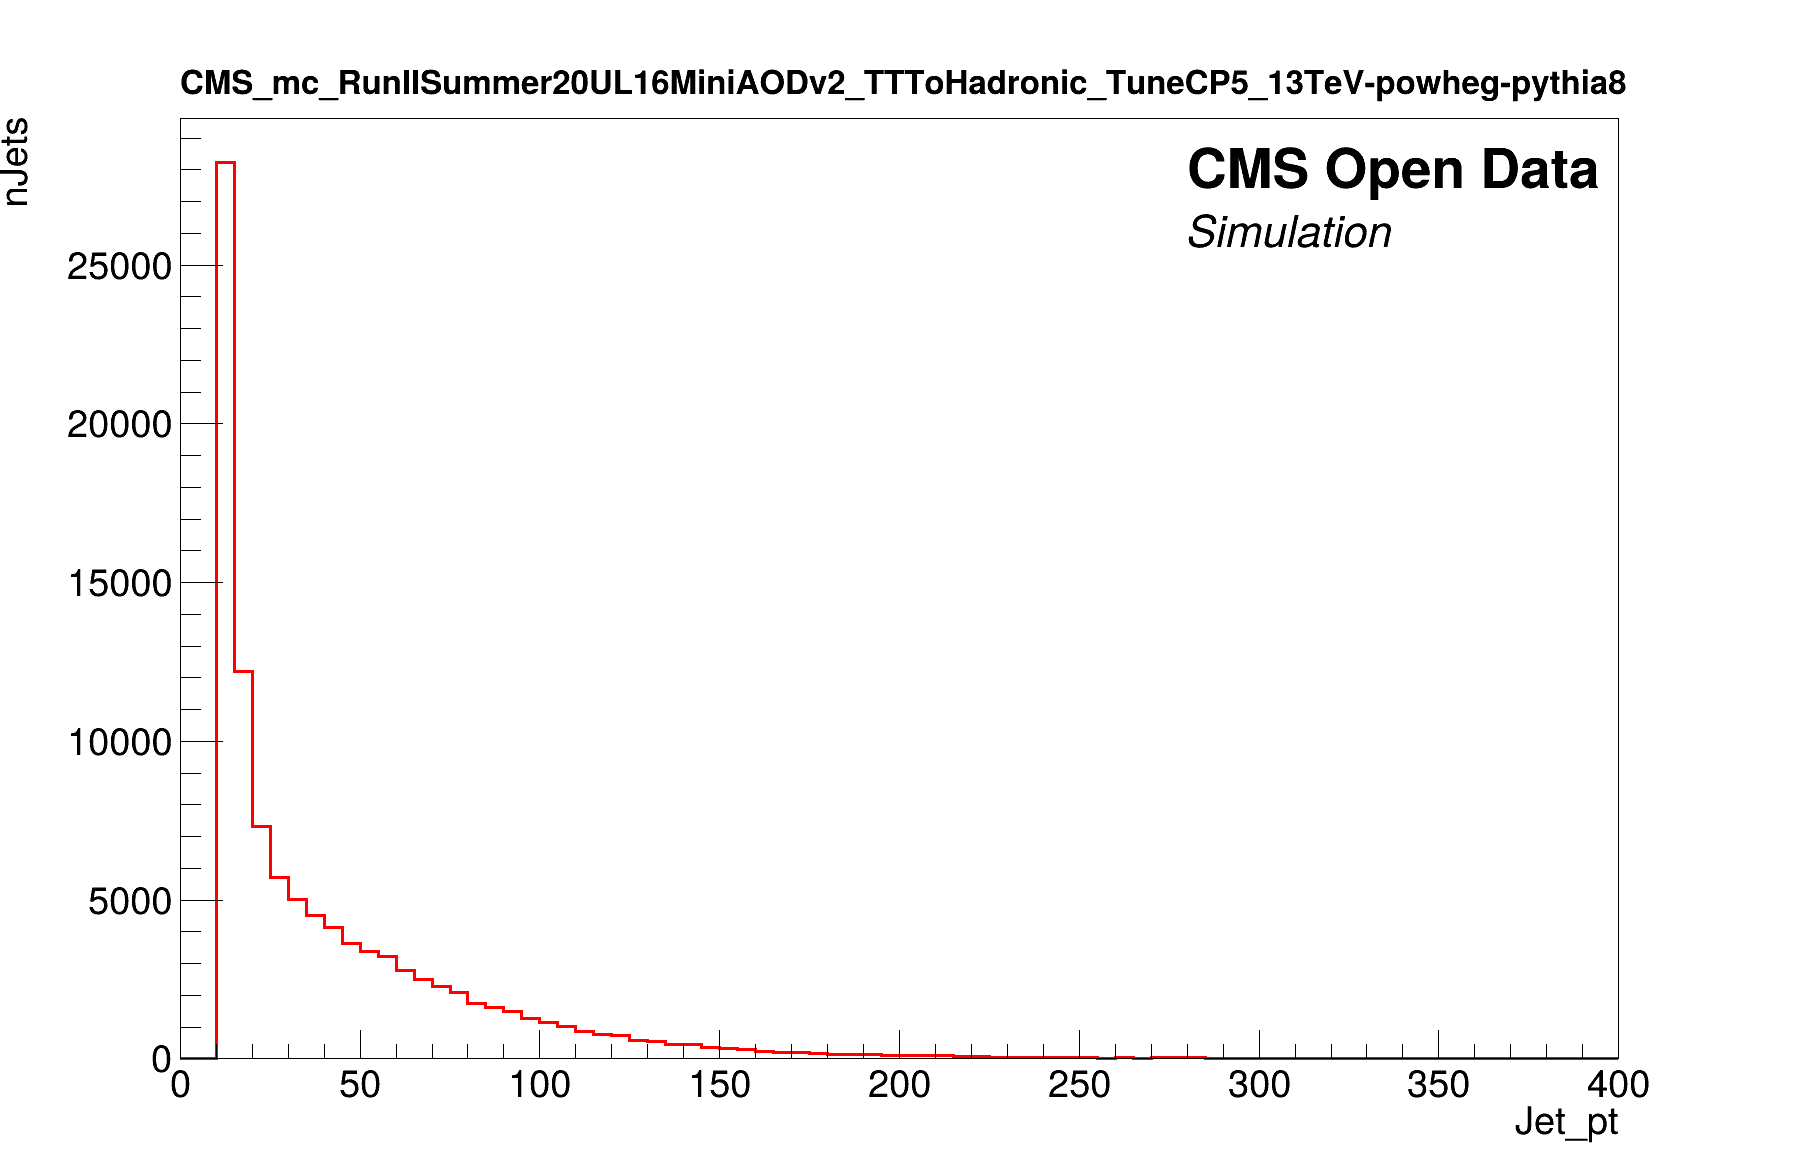
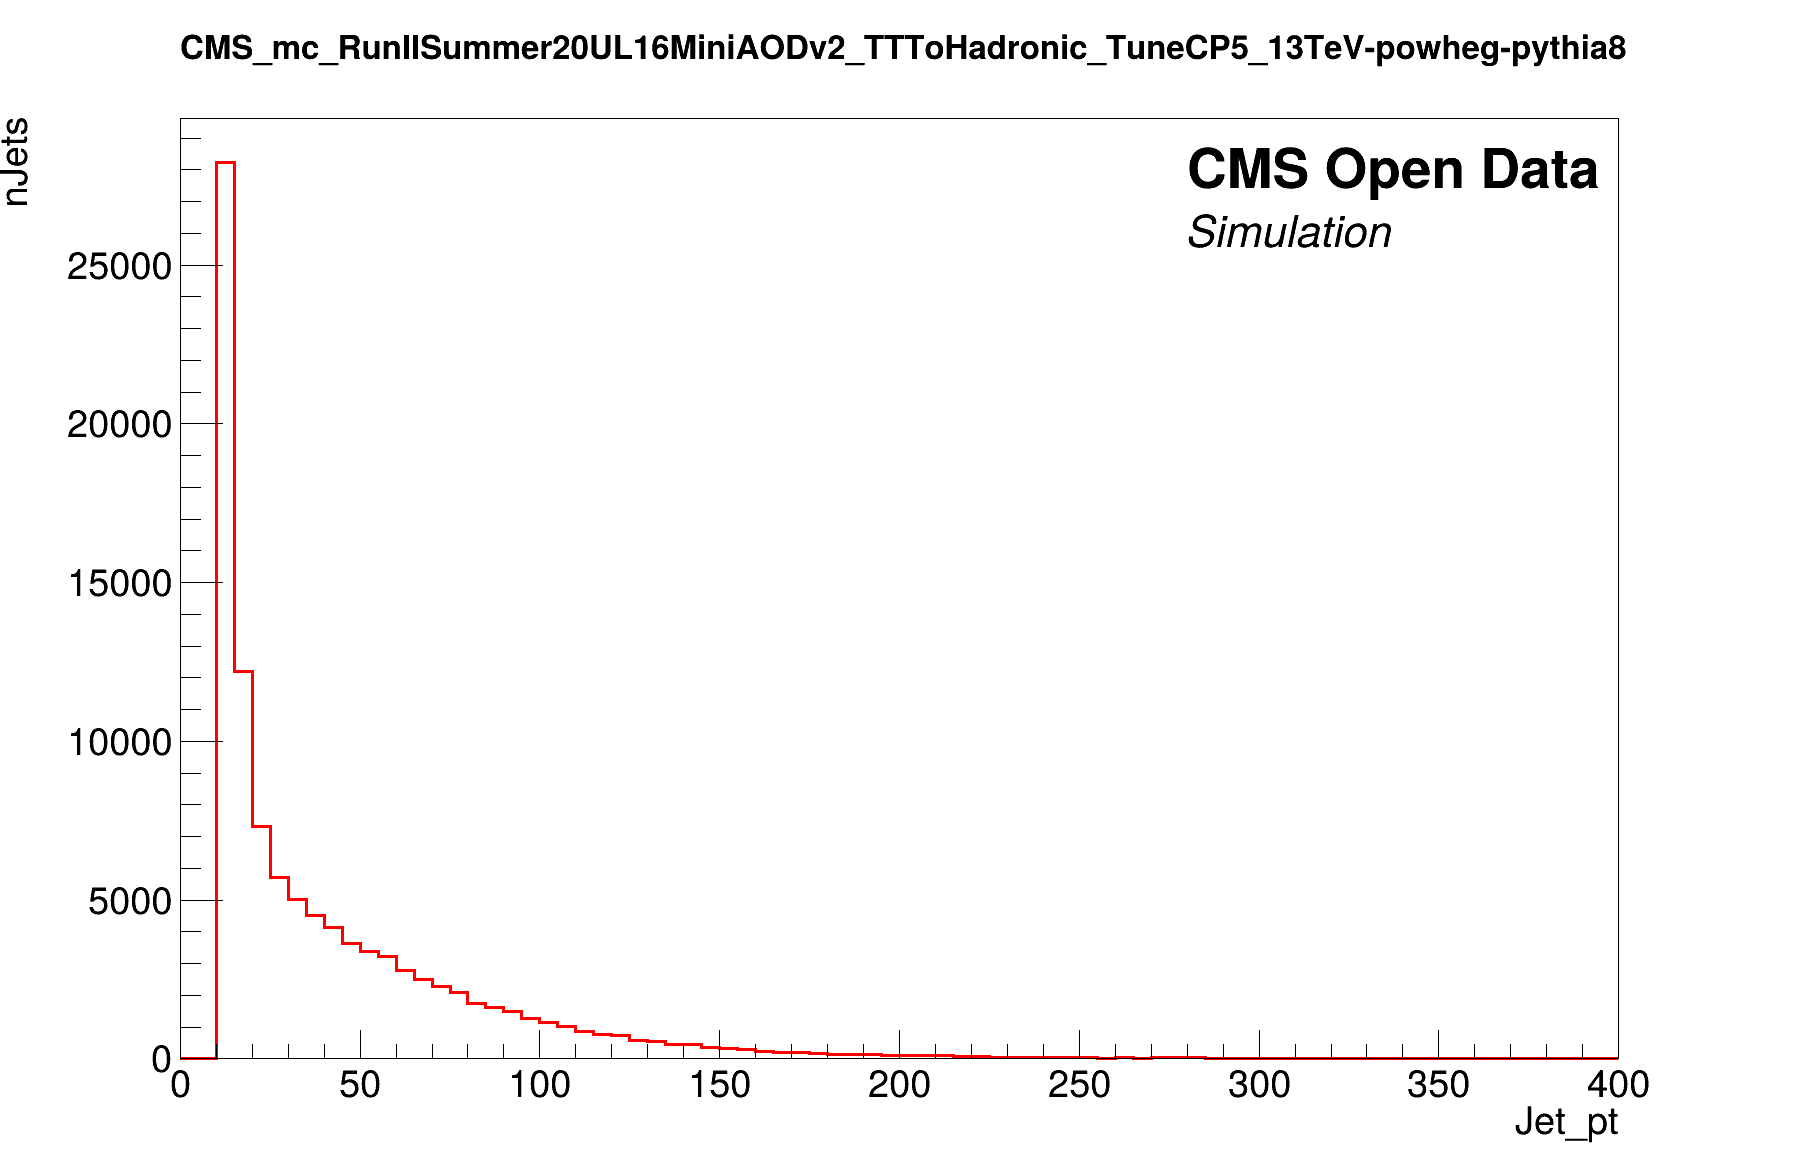
Added scripts to produce hists and overlays

Changed region(s): [[0.0934, 0.0306, 0.9032, 0.0918]]

diff --git a/SoftCharmTagging/AnalysisCodes/Plots/overlay.C b/SoftCharmTagging/AnalysisCodes/Plots/overlay.C
@@ -1,0 +1,205 @@
+/* ===========================================
+   
+  This is a graphing script to make histograms
+  look presentable and ready for journal uses.
+  This one is particularly made as an overlay 
+  script.
+  Created on: 10 Jul, 2024
+  Original Author: Raj Handique
+
+  Steps to the execute/run the code:
+
+  1. In the ROOT prompt,
+  root [0] .x graphing.C -> will produce the desired plot
+  =========================================== */
+
+// user include header files 
+
+#include <iostream>
+#include <string>
+#include <fstream>
+#include <TFile.h>
+#include <TH1.h>
+#include <TH1F.h>
+#include <TPaveText.h>
+#include <TString.h>
+#include <TCanvas.h>
+#include <TLegend.h>
+#include <TGraph.h>
+
+// Declaring all the functions necessary. The descriptions can be found commented
+// along with them.
+
+void decorate(TH1 *h, int linecolor, double linewidth){
+
+  // This functions decorates the histogram with color and linewidth
+
+  h->SetLineColor(linecolor);
+  h->SetLineWidth(linewidth);
+}
+
+void decLegend(TLegend *g, float txtsize, TString lgHeader){
+  g->SetTextSize(txtsize);
+  g->SetFillStyle(1);
+  g->SetFillColor(10);
+  g->SetBorderSize(1);
+  g->SetLineColor(10);
+}
+
+void overlay(){
+
+  // The name of the input files (.root files)
+  TString filename1 = "../Histograms/nanoAnaCentral2016_hist.root";
+  TString filename2 = "../Histograms/nanoAnaCustom2016_hist.root";  
+
+  // The name of the plot(s) to be accessed from the histogram file
+  TString plotname1 = "nJets";
+  TString plotname2 = "Jet_pt";
+  TString plotname3 = "Jet_eta";
+  TString plotname4 = "Jet_phi";
+
+  // Opening the files using TFile
+  TFile *file1 = new TFile(filename1);
+  TFile *file2 = new TFile(filename2);
+
+  // Opening and Assigning the histograms from the input file(s)
+  // filename 1
+  TH1F *h1 = (TH1F*)file1->Get(plotname1);
+  TH1F *h2 = (TH1F*)file1->Get(plotname2);
+  TH1F *h3 = (TH1F*)file1->Get(plotname3);
+  TH1F *h4 = (TH1F*)file1->Get(plotname4);
+  // filename 2
+  TH1F *h5 = (TH1F*)file2->Get(plotname1);
+  TH1F *h6 = (TH1F*)file2->Get(plotname2);
+  TH1F *h7 = (TH1F*)file2->Get(plotname3);
+  TH1F *h8 = (TH1F*)file2->Get(plotname4);
+
+  // Scaling the histograms
+  h1->Scale(1.0/h1->Integral());
+  h2->Scale(1.0/h2->Integral());
+  h3->Scale(1.0/h3->Integral());
+  h4->Scale(1.0/h4->Integral());
+  h5->Scale(1.0/h5->Integral());
+  h6->Scale(1.0/h6->Integral());
+  h7->Scale(1.0/h7->Integral());
+  h8->Scale(1.0/h8->Integral());
+
+  // Plot1: nJets
+  decorate(h1, kRed+0, 3);
+  decorate(h5, kBlue+0, 3);
+  TCanvas *c1 = new TCanvas("c1","CMS Open Data", 1800, 1200);
+  // Legend
+  TLegend *lg1 = new TLegend(0.6, 0.5, 0.9, 0.6,NULL,"NDC");
+  lg1->AddEntry(h1,"customNanoAOD","lp");
+  lg1->AddEntry(h5,"centralNanoAOD","lf");
+  h1->Draw("hist");
+  gPad->Update();
+  TPaveStats* stats1 = (TPaveStats*)h1->FindObject("stats");
+  stats1->SetTextColor(kRed);
+  stats1->SetX1NDC(0.50); stats1->SetX2NDC(0.70);
+  stats1->SetY1NDC(0.75); stats1->SetY2NDC(0.90);
+  h5->Draw("hist sames");
+  gPad->Update();
+  TPaveStats* stats2 = (TPaveStats*)h5->FindObject("stats");
+  stats2->SetTextColor(kBlue);
+  stats2->SetX1NDC(0.70); stats2->SetX2NDC(0.90);
+  stats2->SetY1NDC(0.75); stats2->SetY2NDC(0.90);
+  lg1->Draw();
+  TLatex t1, t2, t3;
+  t1.SetTextSize(0.05);
+  t2.SetTextSize(0.04);
+  t3.SetTextSize(0.03);
+  t1.DrawLatexNDC(0.1, 0.95, "CMS Open Data");
+  t2.DrawLatexNDC(0.1, 0.91, "#it{#bf{Simulation}}");
+//   t3.DrawLatexNDC(0.1, 0.95, "CMS_mc_RunIISummer20UL16NanoAODv9_TTToHadronic_TuneCP5_13TeV-powheg-pythia8");
+  c1->Update();
+  c1->SaveAs("Overlay_plots/nJets_plot.png");
+
+  // Plot2: Jet_pt
+  decorate(h2, kRed+0, 3);
+  decorate(h6, kBlue+0, 3);
+  h2->GetXaxis()->SetRangeUser(0, 300);
+  h6->GetXaxis()->SetRangeUser(0, 300);
+  TCanvas *c2 = new TCanvas("c2","CMS Open Data", 1800, 1200);
+  // Legend
+  TLegend *lg2 = new TLegend(0.6, 0.5, 0.9, 0.6,NULL,"NDC");
+  decLegend(lg2,0.0285,""); 
+  lg2->AddEntry(h2,"customNanoAOD","lp");
+  lg2->AddEntry(h6,"centralNanoAOD","lf");
+  h6->Draw("hist");
+  gPad->Update();
+  TPaveStats* stats3 = (TPaveStats*)h6->FindObject("stats");
+  stats3->SetTextColor(kRed);
+  stats3->SetX1NDC(0.50); stats3->SetX2NDC(0.70);
+  stats3->SetY1NDC(0.75); stats3->SetY2NDC(0.90);
+  h2->Draw("hist sames");
+  gPad->Update();
+  TPaveStats* stats4 = (TPaveStats*)h2->FindObject("stats");
+  stats4->SetTextColor(kBlue);
+  stats4->SetX1NDC(0.70); stats4->SetX2NDC(0.90);
+  stats4->SetY1NDC(0.75); stats4->SetY2NDC(0.90);
+  t1.DrawLatexNDC(0.1, 0.95, "CMS Open Data");
+  t2.DrawLatexNDC(0.1, 0.91, "#it{#bf{Simulation}}");
+//   t3.DrawLatexNDC(0.1, 0.95, "CMS_mc_RunIISummer20UL16NanoAODv9_TTToHadronic_TuneCP5_13TeV-powheg-pythia8");
+  lg2->Draw();
+  c2->Update();
+  c2->SaveAs("Overlay_plots/Jet_pt_plot.png");
+
+  // Plot3: Jet_eta
+  decorate(h3, kRed+0, 3);
+  decorate(h7, kBlue+0, 3);
+  TCanvas *c3 = new TCanvas("c3","CMS Open Data", 1800, 1200);
+  // Legend
+  TLegend *lg3 = new TLegend(0.37, 0.2, 0.625, 0.3,NULL,"NDC");
+  decLegend(lg1,0.0285,""); 
+  lg3->AddEntry(h3,"customNanoAOD","lp"); 
+  lg3->AddEntry(h7,"centralNanoAOD","lf");
+  h3->Draw("hist");
+  gPad->Update();
+  TPaveStats* stats5 = (TPaveStats*)h3->FindObject("stats");
+  stats5->SetTextColor(kBlue);
+  stats5->SetX1NDC(0.70); stats5->SetX2NDC(0.90);
+  stats5->SetY1NDC(0.79); stats5->SetY2NDC(0.89);
+  h7->Draw("hist sames");
+  gPad->Update();
+  TPaveStats* stats6 = (TPaveStats*)h7->FindObject("stats");
+  stats6->SetTextColor(kRed);
+  stats6->SetX1NDC(0.70); stats6->SetX2NDC(0.90);
+  stats6->SetY1NDC(0.69); stats6->SetY2NDC(0.79);
+  t1.DrawLatexNDC(0.1, 0.95, "CMS Open Data");
+  t2.DrawLatexNDC(0.1, 0.91, "#it{#bf{Simulation}}");
+//   t3.DrawLatexNDC(0.1, 0.95, "CMS_mc_RunIISummer20UL16NanoAODv9_TTToHadronic_TuneCP5_13TeV-powheg-pythia8");
+  lg3->Draw();
+  c3->Update();
+  c3->SaveAs("Overlay_plots/Jet_eta_plot.png");
+
+  // Plot4: Jet_phi
+  decorate(h4, kRed+0, 3);
+  decorate(h8, kBlue+0, 3);
+  h4->GetXaxis()->SetRangeUser(-5, 5);
+  TCanvas *c4 = new TCanvas("c4","CMS Open Data", 1800, 1200);
+  // Legend
+  TLegend *lg4 = new TLegend(0.37, 0.2, 0.625, 0.3,NULL,"NDC");
+  decLegend(lg1,0.0285,"");
+  lg4->AddEntry(h4,"customNanoAOD","lp");
+  lg4->AddEntry(h8,"centralNanoAOD","lf");
+  h8->Draw("hist");
+  gPad->Update();
+  TPaveStats* stats7 = (TPaveStats*)h8->FindObject("stats");
+  stats7->SetTextColor(kRed);
+  stats7->SetX1NDC(0.4); stats7->SetX2NDC(0.6);
+  stats7->SetY1NDC(0.42); stats7->SetY2NDC(0.52);
+  h4->Draw("hist sames");
+  gPad->Update();
+  TPaveStats* stats8 = (TPaveStats*)h4->FindObject("stats");
+  stats8->SetTextColor(kBlue);
+  stats8->SetX1NDC(0.4); stats8->SetX2NDC(0.6);
+  stats8->SetY1NDC(0.32); stats8->SetY2NDC(0.42);
+  t1.DrawLatexNDC(0.1, 0.95, "CMS Open Data");
+  t2.DrawLatexNDC(0.1, 0.91, "#it{#bf{Simulation}}");
+//   t3.DrawLatexNDC(0.1, 0.95, "CMS_mc_RunIISummer20UL16NanoAODv9_TTToHadronic_TuneCP5_13TeV-powheg-pythia8");
+  lg4->Draw();
+  c4->Update();
+  c4->SaveAs("Overlay_plots/Jet_phi_plot.png");
+}
+

diff --git a/SoftCharmTagging/AnalysisCodes/Plots/central_graphing.C b/SoftCharmTagging/AnalysisCodes/Plots/central_graphing.C
@@ -59,54 +59,54 @@ void central_graphing(){
 
   // Plot1: nJets
   decorate(h1, kRed+0, 3);
-  h1->SetStats(0);
+  h1->SetStats(4);
   TCanvas *c1 = new TCanvas("c1","CMS Open Data", 1800, 1200);
   h1->Draw("hist");
   TLatex t1, t2, t3;
   t1.SetTextSize(0.05);
   t2.SetTextSize(0.04);
   t3.SetTextSize(0.03);
-  t1.DrawLatexNDC(0.66, 0.84, "CMS Open Data");
-  t2.DrawLatexNDC(0.66, 0.79, "#it{#bf{Simulation}}");
-  t3.DrawLatexNDC(0.1, 0.92, "CMS_mc_RunIISummer20UL16NanoAODv9_TTToHadronic_TuneCP5_13TeV-powheg-pythia8");
+  // t1.DrawLatexNDC(0.66, 0.84, "CMS Open Data");
+  // t2.DrawLatexNDC(0.66, 0.79, "#it{#bf{Simulation}}");
+  t3.DrawLatexNDC(0.1, 0.95, "CMS_mc_RunIISummer20UL16NanoAODv9_TTToHadronic_TuneCP5_13TeV-powheg-pythia8");
   c1->Update();
   c1->SaveAs("central_nanoAOD_plots/nJets_plot.png");
 
   // Plot2: Jet_pt
   decorate(h2, kRed+0, 3);
-  h2->SetStats(0);
+  h2->SetStats(4);
   h2->GetXaxis()->SetRangeUser(0, 400);
   TCanvas *c2 = new TCanvas("c2","CMS Open Data", 1800, 1200);
   h2->Draw("hist");
-  t1.DrawLatexNDC(0.66, 0.84, "CMS Open Data");
-  t2.DrawLatexNDC(0.66, 0.79, "#it{#bf{Simulation}}");
-  t3.DrawLatexNDC(0.1, 0.92, "CMS_mc_RunIISummer20UL16NanoAODv9_TTToHadronic_TuneCP5_13TeV-powheg-pythia8");
+  // t1.DrawLatexNDC(0.66, 0.84, "CMS Open Data");
+  // t2.DrawLatexNDC(0.66, 0.79, "#it{#bf{Simulation}}");
+  t3.DrawLatexNDC(0.1, 0.95, "CMS_mc_RunIISummer20UL16NanoAODv9_TTToHadronic_TuneCP5_13TeV-powheg-pythia8");
   c2->Update();
   c2->SaveAs("central_nanoAOD_plots/Jet_pt_plot.png");
 
   // Plot3: Jet_eta
   decorate(h3, kRed+0, 3);
-  h3->SetStats(0);
+  h3->SetStats(4);
   TCanvas *c3 = new TCanvas("c3","CMS Open Data", 1800, 1200);
   h3->Draw("hist");
-  t1.DrawLatexNDC(0.66, 0.84, "CMS Open Data");
-  t2.DrawLatexNDC(0.66, 0.79, "#it{#bf{Simulation}}");
-  t3.DrawLatexNDC(0.1, 0.92, "CMS_mc_RunIISummer20UL16NanoAODv9_TTToHadronic_TuneCP5_13TeV-powheg-pythia8");
+  // t1.DrawLatexNDC(0.66, 0.84, "CMS Open Data");
+  // t2.DrawLatexNDC(0.66, 0.79, "#it{#bf{Simulation}}");
+  t3.DrawLatexNDC(0.1, 0.95, "CMS_mc_RunIISummer20UL16NanoAODv9_TTToHadronic_TuneCP5_13TeV-powheg-pythia8");
   c3->Update();
   c3->SaveAs("central_nanoAOD_plots/Jet_eta_plot.png");
 
 
   // Plot4: Jet_phi
   decorate(h4, kRed+0, 3);
-  h4->SetStats(0);
+  h4->SetStats(4);
   h4->GetXaxis()->SetRangeUser(-5, 5);
   h4->SetMinimum(0);
   h4->SetMaximum(1300);
   TCanvas *c4 = new TCanvas("c4","CMS Open Data", 1800, 1200);
   h4->Draw("hist");
-  t1.DrawLatexNDC(0.66, 0.84, "CMS Open Data");
-  t2.DrawLatexNDC(0.66, 0.79, "#it{#bf{Simulation}}");
-  t3.DrawLatexNDC(0.1, 0.92, "CMS_mc_RunIISummer20UL16NanoAODv9_TTToHadronic_TuneCP5_13TeV-powheg-pythia8");
+  // t1.DrawLatexNDC(0.66, 0.84, "CMS Open Data");
+  // t2.DrawLatexNDC(0.66, 0.79, "#it{#bf{Simulation}}");
+  t3.DrawLatexNDC(0.1, 0.95, "CMS_mc_RunIISummer20UL16NanoAODv9_TTToHadronic_TuneCP5_13TeV-powheg-pythia8");
   c4->Update();
   c4->SaveAs("central_nanoAOD_plots/Jet_phi_plot.png");
 }

diff --git a/SoftCharmTagging/AnalysisCodes/Plots/custom_graphing.C b/SoftCharmTagging/AnalysisCodes/Plots/custom_graphing.C
@@ -68,7 +68,7 @@ void custom_graphing(){
   t3.SetTextSize(0.03);
   t1.DrawLatexNDC(0.66, 0.84, "CMS Open Data");
   t2.DrawLatexNDC(0.66, 0.79, "#it{#bf{Simulation}}");
-  t3.DrawLatexNDC(0.1, 0.92, "CMS_mc_RunIISummer20UL16MiniAODv2_TTToHadronic_TuneCP5_13TeV-powheg-pythia8");
+  t3.DrawLatexNDC(0.1, 0.95, "CMS_mc_RunIISummer20UL16MiniAODv2_TTToHadronic_TuneCP5_13TeV-powheg-pythia8");
   c1->Update();
   c1->SaveAs("custom_nanoAOD_plots/nJets_plot.png");
 
@@ -80,7 +80,7 @@ void custom_graphing(){
   h2->Draw("hist");
   t1.DrawLatexNDC(0.66, 0.84, "CMS Open Data");
   t2.DrawLatexNDC(0.66, 0.79, "#it{#bf{Simulation}}");
-  t3.DrawLatexNDC(0.1, 0.92, "CMS_mc_RunIISummer20UL16MiniAODv2_TTToHadronic_TuneCP5_13TeV-powheg-pythia8");
+  t3.DrawLatexNDC(0.1, 0.95, "CMS_mc_RunIISummer20UL16MiniAODv2_TTToHadronic_TuneCP5_13TeV-powheg-pythia8");
   c2->Update();
   c2->SaveAs("custom_nanoAOD_plots/Jet_pt_plot.png");
 
@@ -91,7 +91,7 @@ void custom_graphing(){
   h3->Draw("hist");
   t1.DrawLatexNDC(0.66, 0.84, "CMS Open Data");
   t2.DrawLatexNDC(0.66, 0.79, "#it{#bf{Simulation}}");
-  t3.DrawLatexNDC(0.1, 0.92, "CMS_mc_RunIISummer20UL16MiniAODv2_TTToHadronic_TuneCP5_13TeV-powheg-pythia8");
+  t3.DrawLatexNDC(0.1, 0.95, "CMS_mc_RunIISummer20UL16MiniAODv2_TTToHadronic_TuneCP5_13TeV-powheg-pythia8");
   c3->Update();
   c3->SaveAs("custom_nanoAOD_plots/Jet_eta_plot.png");
 
@@ -106,7 +106,7 @@ void custom_graphing(){
   h4->Draw("hist");
   t1.DrawLatexNDC(0.66, 0.84, "CMS Open Data");
   t2.DrawLatexNDC(0.66, 0.79, "#it{#bf{Simulation}}");
-  t3.DrawLatexNDC(0.1, 0.92, "CMS_mc_RunIISummer20UL16MiniAODv2_TTToHadronic_TuneCP5_13TeV-powheg-pythia8");
+  t3.DrawLatexNDC(0.1, 0.95, "CMS_mc_RunIISummer20UL16MiniAODv2_TTToHadronic_TuneCP5_13TeV-powheg-pythia8");
   c4->Update();
   c4->SaveAs("custom_nanoAOD_plots/Jet_phi_plot.png");
 }
